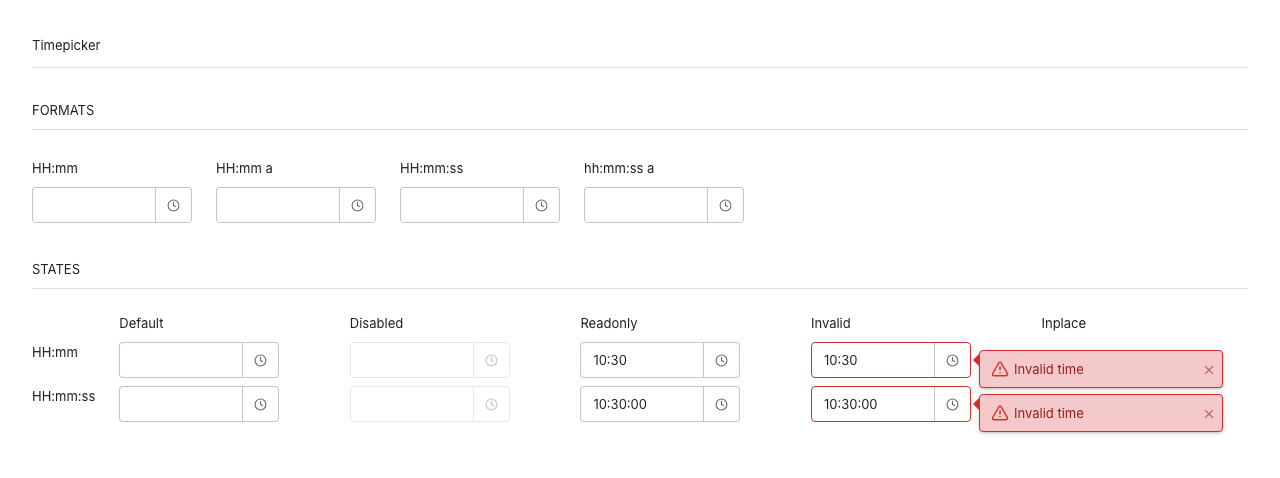
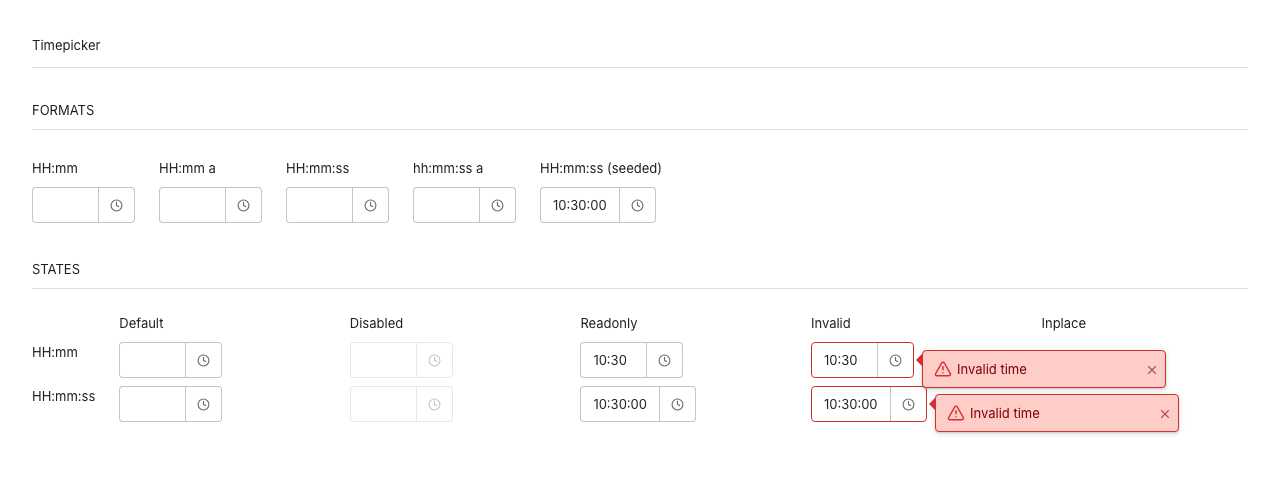
theme(timepicker): drop forced 160px preview width; content-fit shows through
The preview no longer pins timepickers to width="160px" — with the
content-fit fix (field-sizing:content) every cell now sizes to its own time,
so the demo shows the real behavior instead of masking it. Refresh the test's
rationale comment (widths gone; every seeded HH:mm:ss cell is now a live clip
target — assertions unchanged, still order-independent) and regenerate both
timepicker baselines (gallery was stale, predating the change; forced-colors
review image refreshed).

diff --git a/src/test/playwright/screenshot.spec.ts b/src/test/playwright/screenshot.spec.ts
@@ -657,12 +657,12 @@ test.describe('timepicker', () => {
   // timepicker is a fixed-format, readonly time field but ZK hardcodes the input at
   // size="5" (fits HH:mm only). Under the old `flex:1;min-width:0` with no field-sizing,
   // an HH:mm:ss value ("10:30:00") CLIPS (scrollWidth > clientWidth) whenever the root
-  // isn't given an explicit width — every preview cell masked it with width="160px".
-  // pv/timepicker-content.zul adds one seeded auto-width HH:mm:ss cell to expose it.
-  // Fix mirrors timebox: field-sizing:content lets the input hug/grow to its time.
+  // isn't given an explicit width. pv/timepicker-content.zul renders its timepickers at
+  // content width (no forced width="160px"), so every seeded HH:mm:ss cell is a live clip
+  // target. Fix mirrors timebox: field-sizing:content lets the input hug/grow to its time.
   // Readonly (value picked from popup, not typed) → no per-keystroke jitter. RED before
-  // the fix (auto-width cell clipped), GREEN after. Order-independent: no seeded input
-  // may clip, and all must report field-sizing:content.
+  // the fix (seeded cells clipped), GREEN after. Order-independent: no seeded input may
+  // clip, and all must report field-sizing:content.
   test('input hugs its time content (field-sizing, no clip)', async ({ page }) => {
     const info = await page.evaluate(() => {
       const seeded = ([...document.querySelectorAll('.z-timepicker-input')] as HTMLInputElement[])
